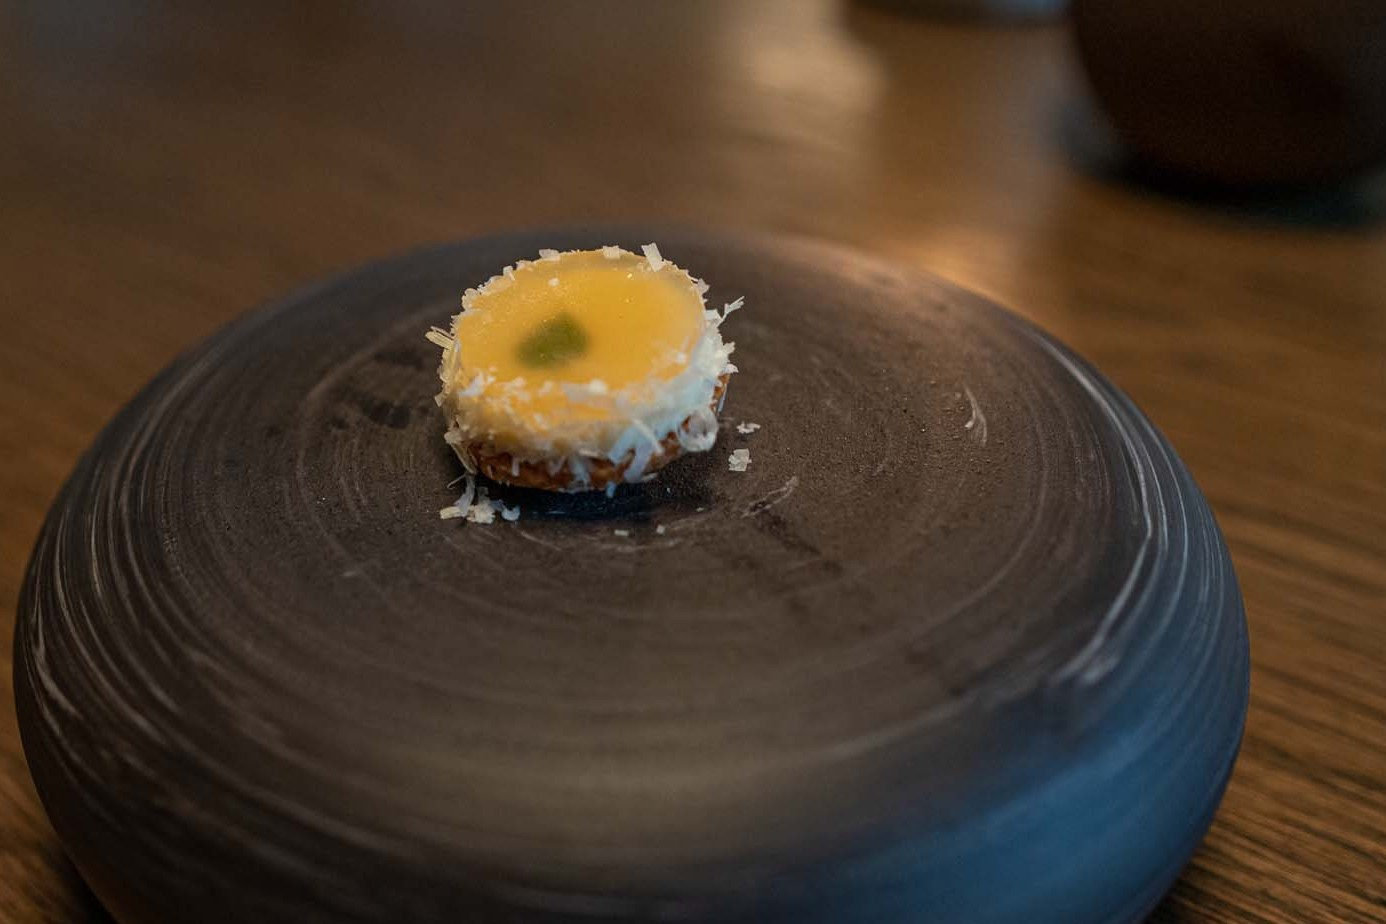
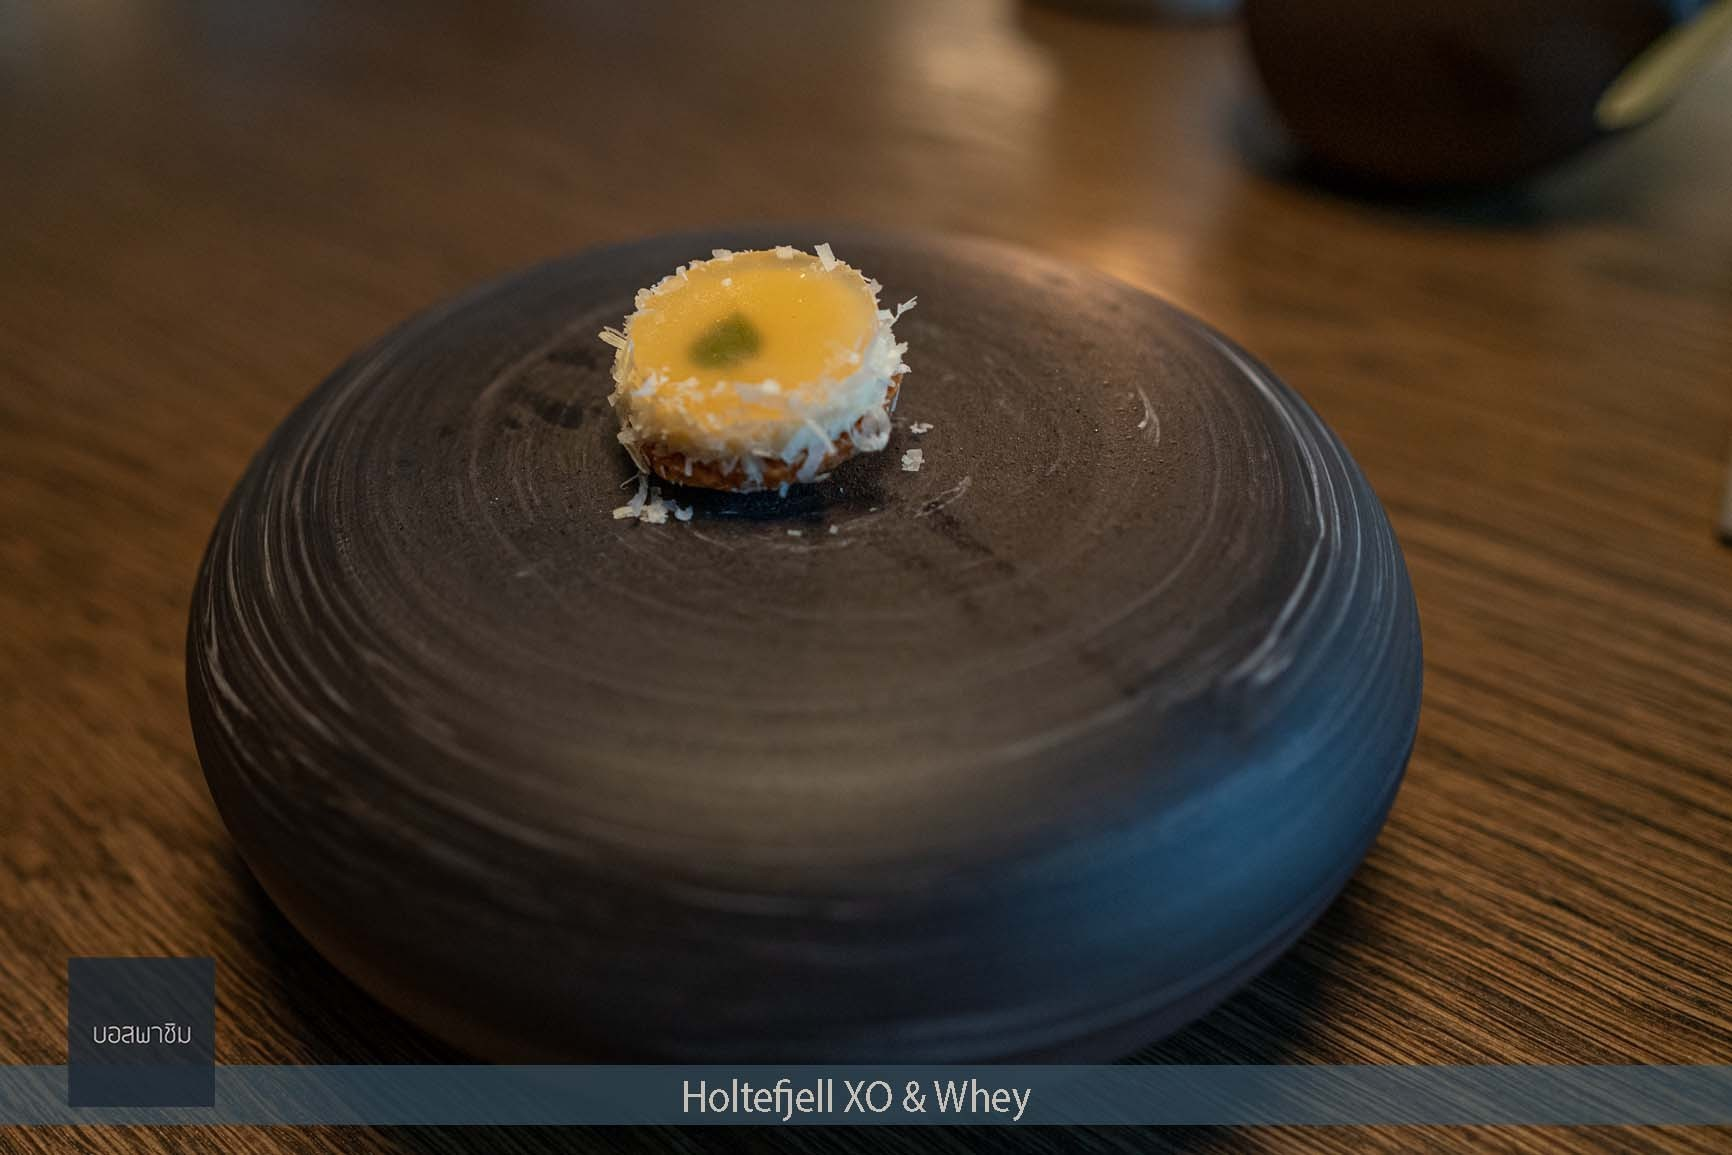
kontrast: use as-shot originals with caption bar (Boss OK 11 Nov); cover focus/zoom keeps bar out of 3:2
Claude-Session: https://claude.ai/code/session_017cY6J6uPkEjNrLqN3xSHNx

diff --git a/posts/kontrast.md b/posts/kontrast.md
@@ -9,7 +9,7 @@ restaurant:
   chef: "Mikael Svensson"
   cuisine: "Nordic"
   style: "Norwegian"
-cover: "./images/kontrast/cover.jpg | ไข่แดงแช่น้ำบีทรูทบนคัสตาร์ดไทม์ในถ้วยสีน้ำเงินเทา ร้าน Kontrast ออสโล"
+cover: "./images/kontrast/cover.jpg | ไข่แดงแช่น้ำบีทรูทบนคัสตาร์ดไทม์ในถ้วยสีน้ำเงินเทา ร้าน Kontrast ออสโล | focus=0.5,0.4 | zoom=1.25"
 bill: "~2300 NOK (included 4 glass of wine)"
 billBand: "฿฿฿"
 visit: Jul-2019
